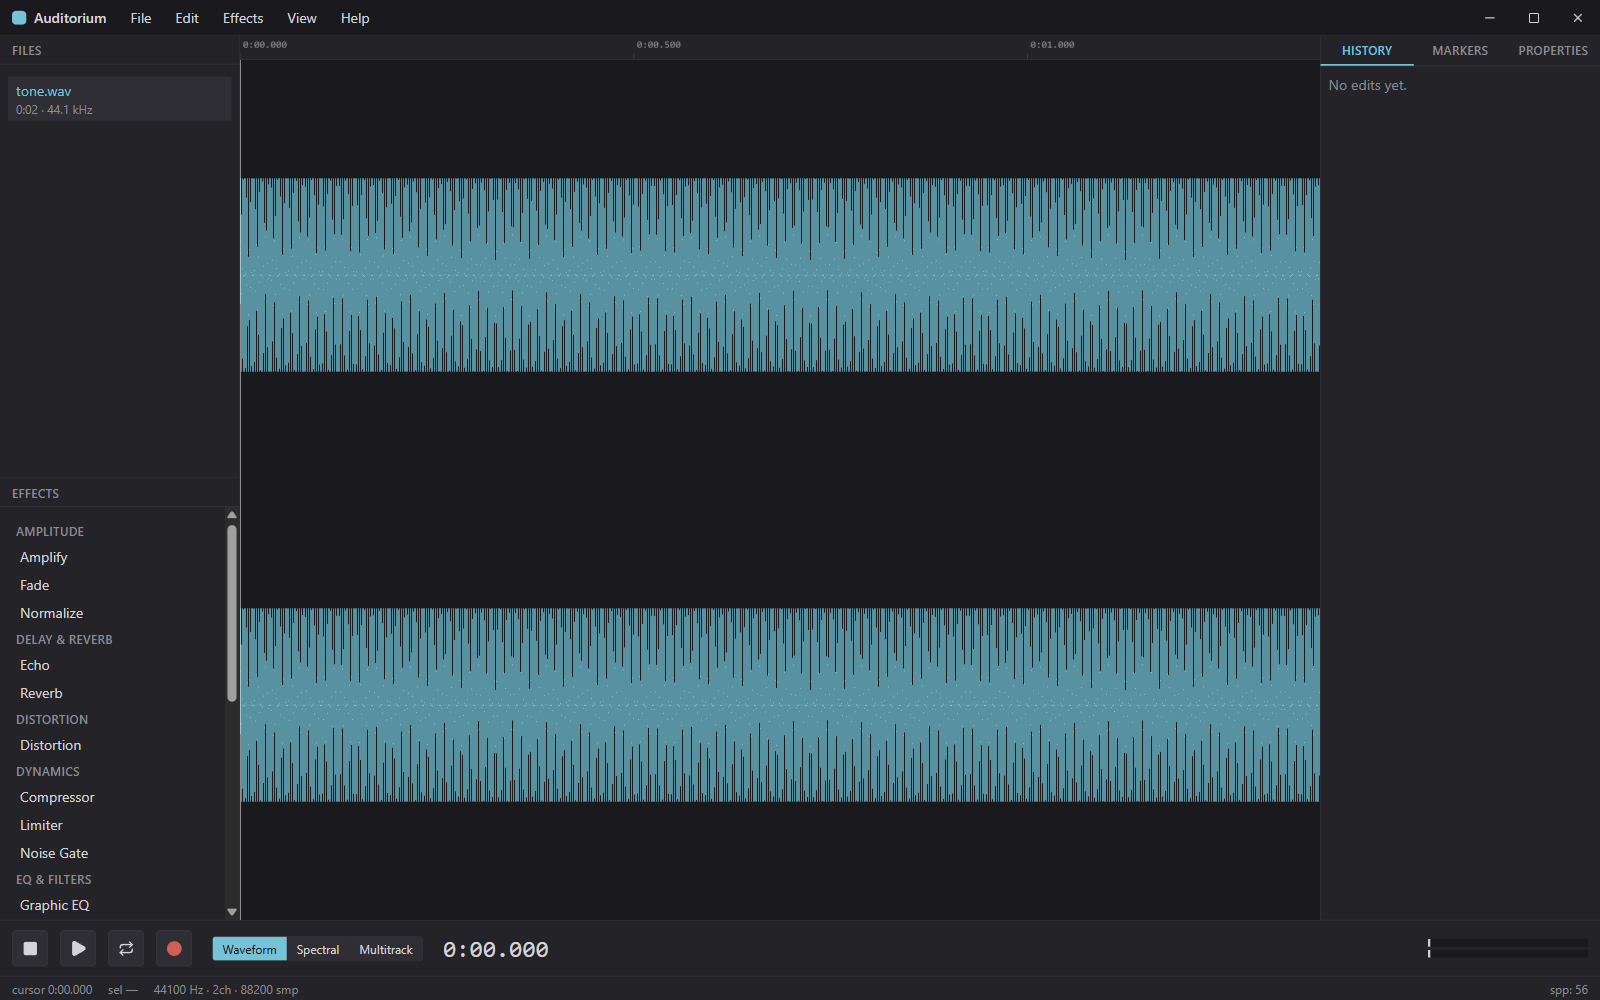
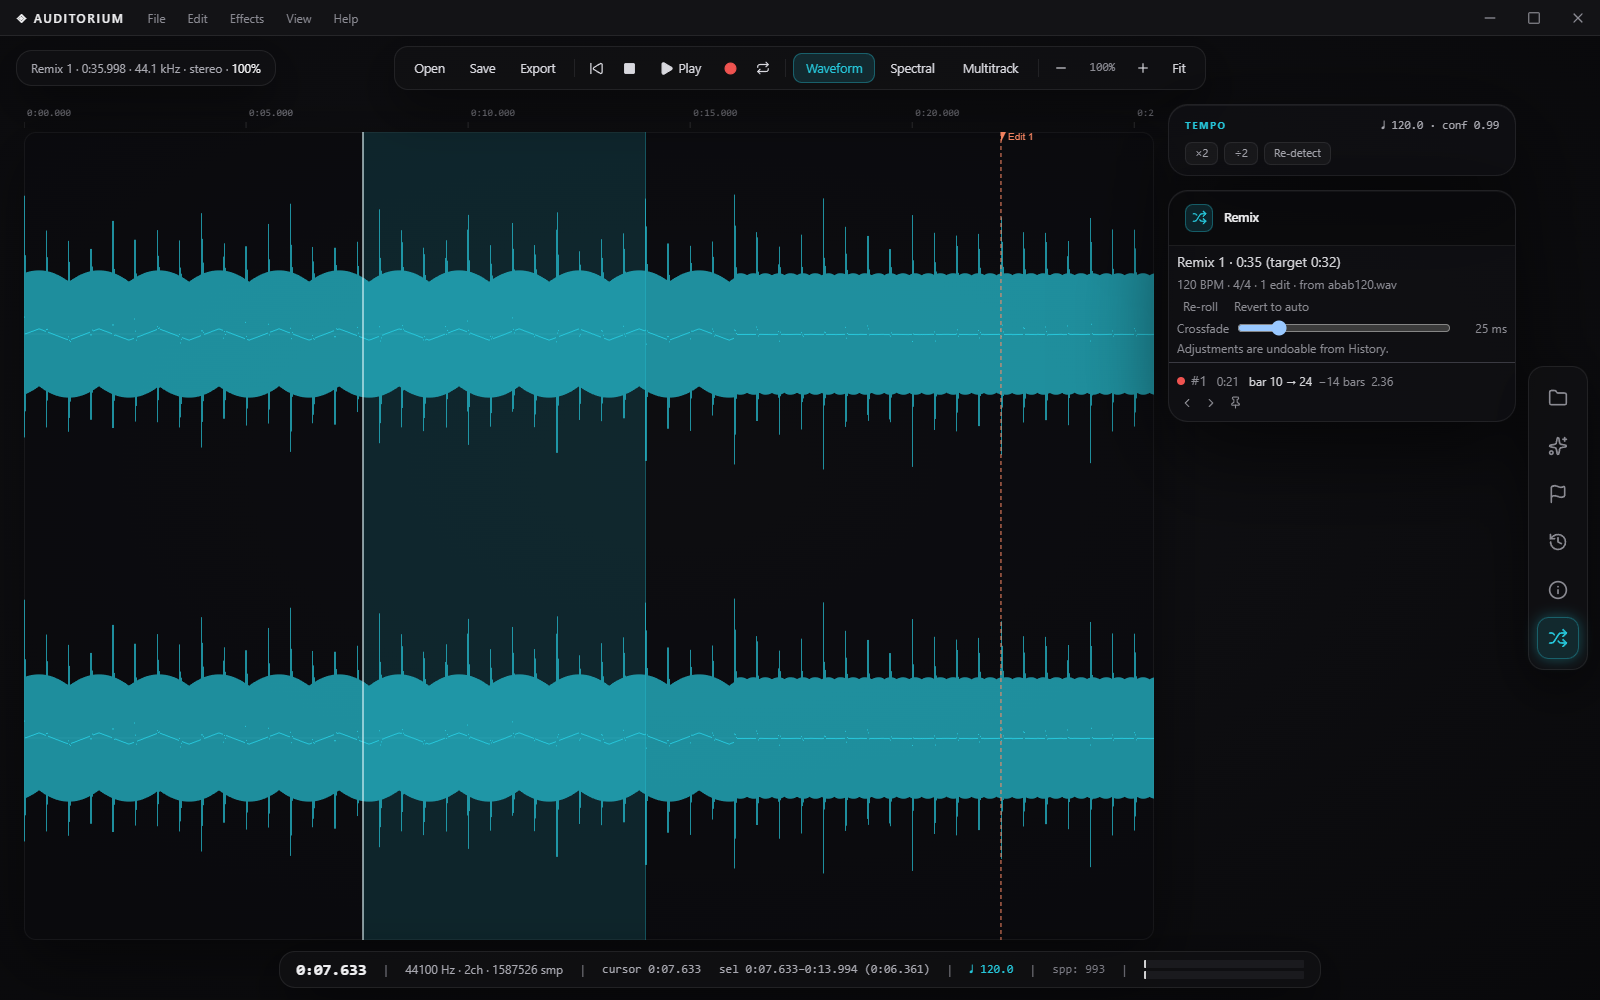
chore(release): v1.6.0 — glass UI docs, recaptured hero screenshots, version bump

diff --git a/README.md b/README.md
@@ -50,14 +50,14 @@ use `npm run dev`.
 - **Multitrack Editor** — a session timeline of tracks and clips with per-track volume/pan/mute/solo/arm and draggable, trimmable clips.
 - **Recorder** — a record dialog with input-device selection, channel/sample-rate choice, and a live input-level meter.
 - **Effects Rack** — a categorized effects panel and menu; each effect opens a parameter dialog with a preview before applying.
-- **Files Panel** — the left-sidebar list of open documents with name, dirty marker, duration, and sample rate.
+- **Files Panel** — the list of open documents (name, dirty marker, duration, sample rate), opened from the right-edge icon rail.
 - **History Panel** — the active document's undo history; click any entry to jump the document to that state.
 - **Markers Panel** — the active document's marker list with jump-to, inline rename, and delete.
 - **Properties Panel** — read-only facts about the active document or selected clip (path, rate, channels, bit depth, duration, selection, detected tempo).
-- **Transport & Level Meters** — play/pause/stop, record, the view toggle, time readout, and output level meters.
-- **Tempo Readout** — the status bar's `♩ BPM` and the Properties panel's Tempo row, showing the detected tempo with its confidence, a staleness marker, and ×2 / ÷2 buttons that re-track the beat grid at the corrected period.
+- **Transport & Level Meters** — play/pause/stop, record, loop, the view toggle and a zoom cluster in the top toolbar pill; the time readout and output level meters in the floating bottom status pill.
+- **Tempo Readout** — the status pill's `♩ BPM`, the TEMPO card above the panel cards, and the Properties panel's Tempo row, showing the detected tempo with its confidence, a staleness marker, and ×2 / ÷2 buttons that re-track the beat grid at the corrected period.
 - **Match Tempo Dialog** — source BPM (prefilled from the detection, re-detectable from the selection), target BPM or ratio, the stretch-quality band, and an optional beat-marker grid at the new tempo.
-- **Auto-Remix Dialog & Remix Panel** — the dialog analyses the track and takes tempo/time-signature confirmation, phrase length, target length, crossfade, strictness and repeat options; the Remix panel is the fourth right-sidebar tab, listing one row per splice with a cost-coloured quality dot, Go To, ✕ Reject, 📌 Pin, ◂ ▸ Nudge, Re-roll and Revert to auto.
+- **Auto-Remix Dialog & Remix Panel** — the dialog analyses the track and takes tempo/time-signature confirmation, phrase length, target length, crossfade, strictness and repeat options; the Remix panel (the Remix entry on the icon rail) lists one row per splice with a cost-coloured quality dot, Go To, Reject, Pin, Nudge earlier/later, Re-roll and Revert to auto.
 
 ## Features
 
@@ -79,10 +79,10 @@ use `npm run dev`.
 - Cut, copy, paste, and delete on sample-accurate `[start, end)` selections.
 - Per-document undo/redo history, up to 50 steps within an 800 MB per-document memory budget (oldest step evicted once either limit is hit), browsable in the History panel; marker add/rename/delete are undoable too (`Add Marker`/`Rename Marker`/`Delete Marker`).
 - Selection by click-drag, double-click (select all), shift-click (extend), `Ctrl+A`, and `Escape` to clear.
-- Zoom and scroll on both the waveform and spectral views (mouse wheel), sharing one cursor/selection/playhead.
+- Zoom and scroll on both the waveform and spectral views (mouse wheel, plus the toolbar pill's − / % / + / Fit cluster), sharing one cursor/selection/playhead.
 - Session markers: drop with `M`, rename inline, jump to next/previous, list in the Markers panel. Markers persist to disk in every supported container: `.wav` (cue/adtl chunks, Unicode names), `.mp3` (ID3v2.3 chapter frames), `.flac` (VORBIS_COMMENT chapter tags), `.ogg` (OpusTags chapter comments), and `.audm` sessions — sample-accurate on reopen. Destructive edits (delete, paste, trim, replace, sample-rate conversion, length-changing effects) remap or drop marker positions along with the audio, clamped to the document length.
 - **Convert Sample Rate / Convert Channels**: `Edit → Convert Sample Rate…` resamples the whole document to a chosen rate (22050/44100/48000/96000 Hz), rescaling markers in lockstep; `Edit → Convert Channels…` converts Mono ↔ Stereo. Both are undoable.
-- Loop-playback toggle on the transport bar (`transport.toggleLoop`).
+- Loop-playback toggle in the toolbar pill (`transport.toggleLoop`).
 - **Noise-print workflow**: capture a noise print from a selection, then Noise Reduction subtracts it from the target region.
 - Recording device selection, channel count, and sample rate in the record dialog.
 - **Export**: WAV at 16-bit, 24-bit, or 32-bit float; FLAC (16-bit, lossless); MP3 at 128/192/256/320 kbps (CBR); OGG (Opus) at 96/128/192 kbps.
@@ -94,7 +94,7 @@ use `npm run dev`.
 - **Spectral log/linear toggle**: the Spectral Frequency Display's frequency axis switches between logarithmic (default) and linear scaling.
 - **Multitrack punch-in recording**: arm one or more tracks with their **R** toggle, position the multitrack cursor, then press **Record** — the take lands as a clip on every track that was armed when it started.
 - **Sessions**: save/open multitrack sessions as `.audm` (format v3 — a binary layout with no size-limited base64 encoding, so Save Session no longer fails silently on large embedded audio; older v1/v2 session files still open), and mix down a whole session to a new stereo document.
-- **Tempo detection**: `Effects → Detect Tempo` runs a shared off-thread beat-tracking pass (log-band spectral-flux onsets → harmonic-comb tempo estimate → Ellis dynamic-programming beat tracking → sample-accurate refinement) and reports the BPM plus a confidence score in the status bar and the Properties panel. The beats are tracked, not extrapolated, so the grid follows a drifting take; ×2 / ÷2 buttons re-track at the corrected period when the octave is wrong. Whole-document analysis is capped at 10 minutes and flags the result as truncated past that.
+- **Tempo detection**: `Effects → Detect Tempo` runs a shared off-thread beat-tracking pass (log-band spectral-flux onsets → harmonic-comb tempo estimate → Ellis dynamic-programming beat tracking → sample-accurate refinement) and reports the BPM plus a confidence score in the status pill and the Properties panel. The beats are tracked, not extrapolated, so the grid follows a drifting take; ×2 / ÷2 buttons re-track at the corrected period when the octave is wrong. Whole-document analysis is capped at 10 minutes and flags the result as truncated past that.
 - **Match Tempo**: `Effects → Match Tempo…` retargets a selection (or the whole document) from a source BPM to a target BPM or a plain ratio through the WSOLA time stretch, showing whether the resulting stretch is transparent, good, or extreme, and optionally laying down a beat-marker grid at the new tempo as its own undo step.
 - **Auto-Remix**: `Edit → Auto-Remix…` re-arranges a track's own bars to reach a requested length and writes the result to a new `Remix N` document, leaving the source untouched. Bar boundaries come from the tracked beats; each boundary is described by timbre, chroma, loudness and local rhythm and clustered into sections, and a 2-D lattice dynamic program picks the cheapest phrase-congruent arrangement (Φ = 8 bars by default) reaching the target. Joins are micro-aligned by ±10 ms cross-correlation and crossfaded with a power-preserving, length-neutral gain law. The Remix panel then lets you reject, pin, or nudge any individual splice, re-roll the whole arrangement, or revert to the automatic one — every adjustment undoable from the History panel.
 - Keyboard shortcuts throughout — see [`KEYBOARD_SHORTCUTS.md`](KEYBOARD_SHORTCUTS.md) for the full table.

diff --git a/docs/USER_GUIDE.md b/docs/USER_GUIDE.md
@@ -29,15 +29,16 @@ blank document of a chosen length.
 
 ### Recording
 
-The **Record** button on the transport bar opens the Record dialog: pick an
+The **Record** button in the toolbar pill opens the Record dialog: pick an
 input device, channel count, and sample rate, watch the live input level
 meter, then start/stop. A finished recording is added to the Files panel as a
 new document. To record straight into a session instead, see **Recording into
 the multitrack** below.
 
-### The Files panel (left sidebar)
+### The Files panel
 
-Every open document is listed with its name (a trailing `*` means unsaved
+Open the Files card from the right-edge icon rail (the folder icon). Every
+open document is listed with its name (a trailing `*` means unsaved
 changes), duration, and sample rate. Click a row to make it active; hover and
 click the ✕ to close it (you'll be prompted to save if it's dirty).
 
@@ -66,8 +67,8 @@ Standard editing acts on the current selection: `Ctrl+X` cut, `Ctrl+C` copy,
 (`Ctrl+Z` / `Ctrl+Y` or `Ctrl+Shift+Z`) keeps up to 50 steps per document,
 within an 800 MB per-document memory budget — whichever limit is hit first
 evicts the oldest step (a large document's effective depth can be well under
-50) — and is tracked per document — the **History** tab in the right sidebar
-lists every applied edit; click any entry to jump the document's state to
+50) — and is tracked per document — the **History** panel (opened from the
+icon rail) lists every applied edit; click any entry to jump the document's state to
 that point. Marker add/rename/delete are undoable too (labelled `Add Marker`
 / `Rename Marker` / `Delete Marker` in the History panel), and destructive
 edits that change the timeline (delete, paste, trim, replace, sample-rate
@@ -78,7 +79,7 @@ pre-edit positions.
 ### Markers
 
 Press `M` (or **Edit → Add Marker**) to drop a marker named `Marker N` at the
-current cursor position. The **Markers** tab in the right sidebar lists every
+current cursor position. The **Markers** panel (opened from the icon rail) lists every
 marker on the active document: click a marker's **time** to move the cursor
 there and re-center the view around it; double-click a marker's name to
 rename it inline (`Enter` or clicking away commits, `Escape` cancels); the ✕
@@ -112,10 +113,17 @@ channel). Both dialogs open pre-selected to the active document's current
 rate/channel count, apply to the whole document, and are undoable as a single
 History-panel step.
 
-### The right sidebar (History | Markers | Properties)
+### The panel cards (icon rail)
 
-The right sidebar is a three-tab strip; **History** is the default tab.
+The vertical icon rail at the right edge opens one floating glass panel card
+at a time — **Files**, **Effects**, **Markers**, **History**, **Properties**,
+and **Remix**; **History** is the default. When the active document has a
+tempo analysis, a persistent **TEMPO** card (BPM readout, structure strip, and
+×2 / ÷2 / Re-detect) appears above the panel card.
 
+- **Files** / **Effects** — see their own sections in this guide.
+- **Remix** — a remix document's per-splice adjustment rows (quality dot,
+  Go To, Reject, Pin, Nudge, Re-roll, Revert to auto).
 - **History** — the active document's undo history (see *Cut / Copy / Paste /
   Delete* above).
 - **Markers** — the active document's marker list (see *Markers* above).
@@ -137,7 +145,7 @@ The right sidebar is a three-tab strip; **History** is the default tab.
 
 ## Effects
 
-Effects live in the **Effects** panel (left sidebar), grouped by category, and
+Effects live in the **Effects** panel (opened from the icon rail), grouped by category, and
 mirrored in the **Effects** menu. Double-click an effect (with a document
 open) to open its parameter dialog, adjust settings, and apply. Every effect
 processes the current selection, or the whole document when there's no
@@ -175,7 +183,7 @@ Reduction dialog notices a capture or clear immediately, even while open.
 
 ## Views
 
-Switch between views from the transport bar's view toggle or **View** menu:
+Switch between views from the toolbar pill's view segment or **View** menu:
 
 - **Waveform** — the default per-sample amplitude view, with zoom (mouse
   wheel) and scroll.
@@ -206,14 +214,14 @@ document open. A session has a name, a sample rate, and any number of tracks.
   (source document, start/offset/length, and an editable gain in dB) appear
   in the **Properties** tab.
 - **Playback**: the multitrack view has its own transport, cursor, and
-  playhead, driven by the same transport bar buttons. There is no pause in
+  playhead, driven by the same toolbar-pill transport buttons. There is no pause in
   multitrack playback (v1) — Play/Pause toggles play↔stop. Volume, pan, and
   mute/solo changes apply **live while playing** — the realtime monitor uses the
   same pan law as Mix Down, so it matches the render. Clip moves, trims, and clip
   gain take effect on the next play.
 - **Recording into the multitrack**: **arm** one or more tracks with their **R**
   toggle, position the multitrack cursor where the take should begin, then press
-  **Record** on the transport bar. The session plays back from the cursor as a
+  **Record** in the toolbar pill. The session plays back from the cursor as a
   monitor while your input is captured; press **Record** again (or **Stop**) to
   end the take. The recording becomes a new *Track Recording* document and is
   dropped as a clip at the punch-in point on every track that was armed when you

diff --git a/CHANGELOG.md b/CHANGELOG.md
@@ -5,6 +5,22 @@ All notable changes to Auditorium are documented in this file.
 The format is based on [Keep a Changelog](https://keepachangelog.com/en/1.1.0/),
 and this project adheres to [Semantic Versioning](https://semver.org/spec/v2.0.0.html).
 
+## [1.6.0] - 2026-08-07
+
+Full-app visual rework into the "Glass · Sectioned" design language shared with Vitrine (`photo_app`), from a user-approved mockup. Why: the two apps are a family and should look like one. This is a visual-language port, not a redesign: **zero features added or removed**, and every menu command, keyboard shortcut, dialog flow, DOM event contract, `data-testid` and aria-label is unchanged — the 1,824-test suite and the end-to-end smoke are the regression harness and pass throughout (two styling-only colour assertions were updated with the accent move, nothing else).
+
+### Changed
+
+- **The whole UI sits on glass surfaces over a radial near-black stage.** Design tokens (glass surfaces, blur, borders, shadows, text and radius scales, the canvas radial) are ported verbatim from Vitrine's `src/index.css`; components mirror Vitrine's Layout anatomy. The accent stays Auditorium cyan `#26c6da` (user-approved in the mockup) and everything derives from tokens, so a one-token flip to Vitrine blue remains possible. No new dependencies. Affects: `src/index.css`, new `src/components/UI/glass.tsx` primitives, every Layout/Panel/Dialog component.
+- **Both sidebars became a right-edge icon rail + floating glass cards.** The 240 px left column (Files/Effects) and the 280 px right tab strip are gone; all six panels — Files, Effects, Markers, History, Properties, Remix — open from one vertical icon rail into a floating 348 px card column, with a persistent TEMPO card (BPM readout, structure strip, ×2 / ÷2 / Re-detect) above the panel card whenever the active document has a cached analysis. Behaviour note: Files and Effects are no longer always-visible; nothing functionally required them to be (no drag-drop targets exist, and the open flow never focused a panel).
+- **The bottom transport bar was retired into two floating chrome pills.** File ops, transport (plus a Go to Start button), the view segment and a new zoom cluster (− / % / + / Fit, driving the existing wheel-zoom state with the wheel's own factor and clamps) sit in a top-centre toolbar pill, with a file chip (name · duration · rate · channels · zoom) top-left; the prominent time readout and the level meters moved into the floating bottom status pill alongside its existing readouts. Every command id, shortcut, enabled-state rule and aria-label carried over verbatim.
+- **Window chrome went glass**: frameless titlebar with the ◈ AUDITORIUM wordmark, chrome-styled menus, and lucide window buttons (the close button's Windows-red hover became Vitrine's subtle white hover). The close path still routes through the close guard — window buttons never bypass the unsaved-changes prompt.
+- **All seven dialogs sit on one glass DialogShell** — radius-20 card on a blurred scrim, icon-tile header with title/subtitle, uppercase section labels, glass fields/sliders, accent primary buttons. Escape/backdrop/busy-veto semantics and every testid are untouched. Native OS dialogs (save/close prompts, error boxes) are unchanged — they cannot take glass styling.
+- **The editor canvas became the stage.** Waveform/spectral lanes and multitrack track rows float as rounded, inset-ring cards over the radial background; the timeline ruler is muted chrome text. Selection is now accent-soft with ring edges, and the playhead is accent with a soft glow in every view — the multitrack playhead moved from yellow to accent to match. Canvas drawing code (peaks, spectrogram, markers) is untouched beyond routing colour constants through the tokens; markers keep their amber, the cursor stays white.
+- **Icons are lucide line icons throughout** — remaining emoji/unicode glyph controls (✕ ◂ ▸ 📌 ⏮ ▶ ⏺ ⟲ …) were swept to their lucide equivalents. Notation readouts are deliberately kept as text: the `♩ BPM` readout, the `*` stale and `?` low-confidence markers, and the `●○` confidence meter.
+- **Scrollbars app-wide are the 6 px Vitrine thin style** — the ported scrollbar CSS is global by nature, so every panel and dialog list scrollbar changed with it.
+- Hero screenshots (`docs/screenshot.png`, `docs/screenshot-spectral.png`) recaptured from the running v1.6 app, staged with the synthetic ABAB fixture; README and User Guide prose updated where it described the old anatomy (left/right sidebars, tab strip, bottom transport bar).
+
 ## [1.5.2] - 2026-07-28
 
 Deferred-fixes release: the audit findings deliberately carried out of v1.5.0/v1.5.1, fixed in one pass. No feature changes.

diff --git a/docs/KNOWN_LIMITATIONS.md b/docs/KNOWN_LIMITATIONS.md
@@ -308,7 +308,7 @@ exists.
 **v1.5 behavior:** `Remix N` is created the way Mix Down creates its output —
 `createDocument` + `addDocument`, no undo entry — so it inherits `dirty: false`
 and closes silently. A user who rejects three joins, nudges a fourth, and then
-closes the tab loses that arrangement with no "Unsaved changes" prompt, even
+closes the document loses that arrangement with no "Unsaved changes" prompt, even
 though the audio has never been on disk.
 
 **The flag is deliberately NOT overridden.** `undoHistory` re-derives `dirty`
